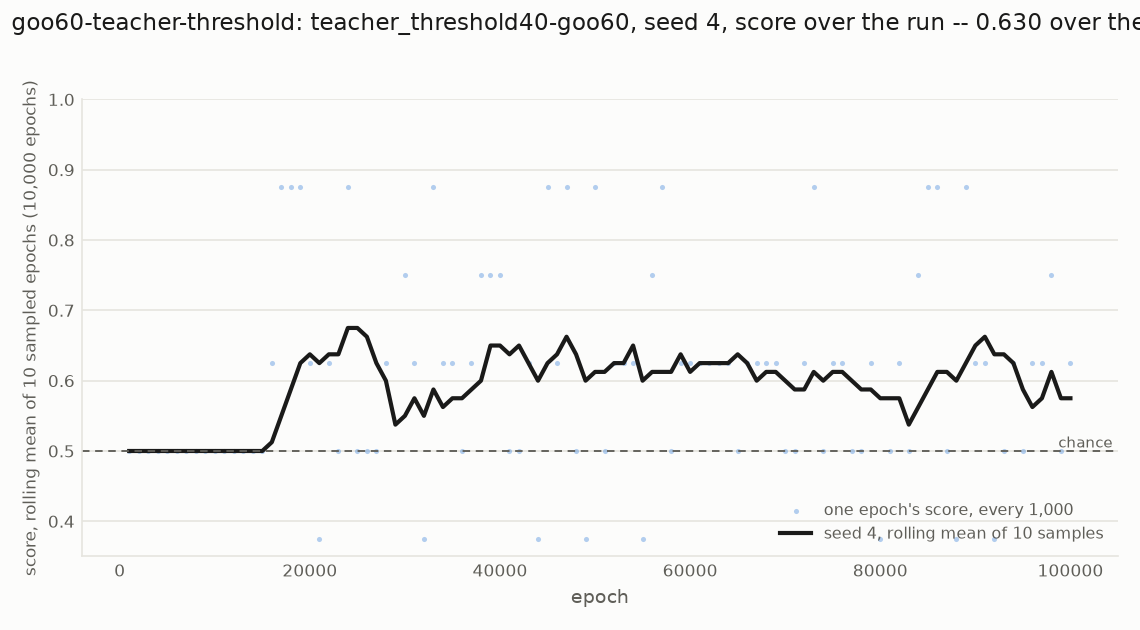
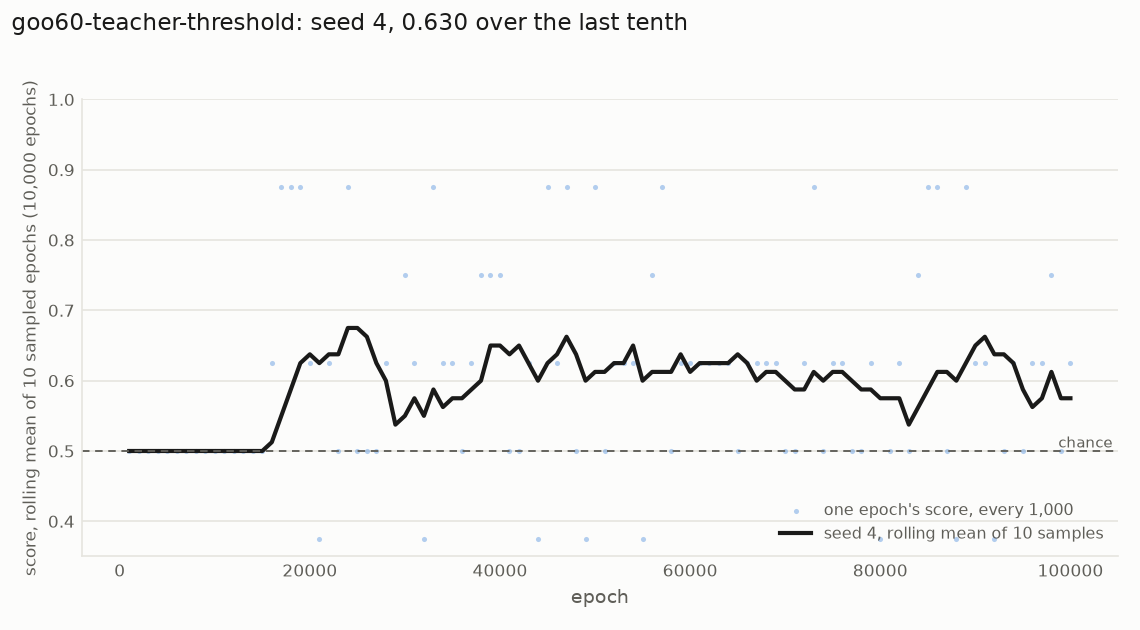
The one-seed trace title fits its figure

Changed region(s): [[0.2763, 0.0, 0.8289, 0.0603], [0.8596, 0.0, 1.0, 0.0603]]

diff --git a/docs/goo-trace-report.py b/docs/goo-trace-report.py
@@ -95,9 +95,12 @@ def plot(args, traces, finals) -> None:
         ax.plot([], [], color=BLUE, linewidth=0.8, alpha=0.6, label=note)
     ax.legend(loc="lower right", frameon=False, fontsize=7.5, labelcolor=INK2)
     ax.set_ylim(0.35, 1.0)
-    who = f"seed {seeds[0]}" if one else (args.arm or "every seed")
-    tail = f" -- {finals[seeds[0]]:.3f} over the last tenth" if one and finals.get(seeds[0]) is not None else ""
-    fig.suptitle(f"{args.name}: {args.arm + ', ' if one and args.arm else ''}{who}, score over the run{tail}", x=0.01, ha="left", color=INK, fontsize=11)
+    if one:  # short enough to fit: the arm is in the file name, the last tenth is the number that matters
+        tail = f", {finals[seeds[0]]:.3f} over the last tenth" if finals.get(seeds[0]) is not None else ""
+        title = f"{args.name}: seed {seeds[0]}{tail}"
+    else:
+        title = f"{args.name}: {args.arm or 'every seed'}, score over the run"
+    fig.suptitle(title, x=0.01, ha="left", color=INK, fontsize=11)
     fig.tight_layout(rect=(0, 0, 1, 0.96))
     out = ROOT / "docs" / (f"{args.name}-{args.arm}-trace.png" if args.arm else f"{args.name}-trace.png")
     if one:
